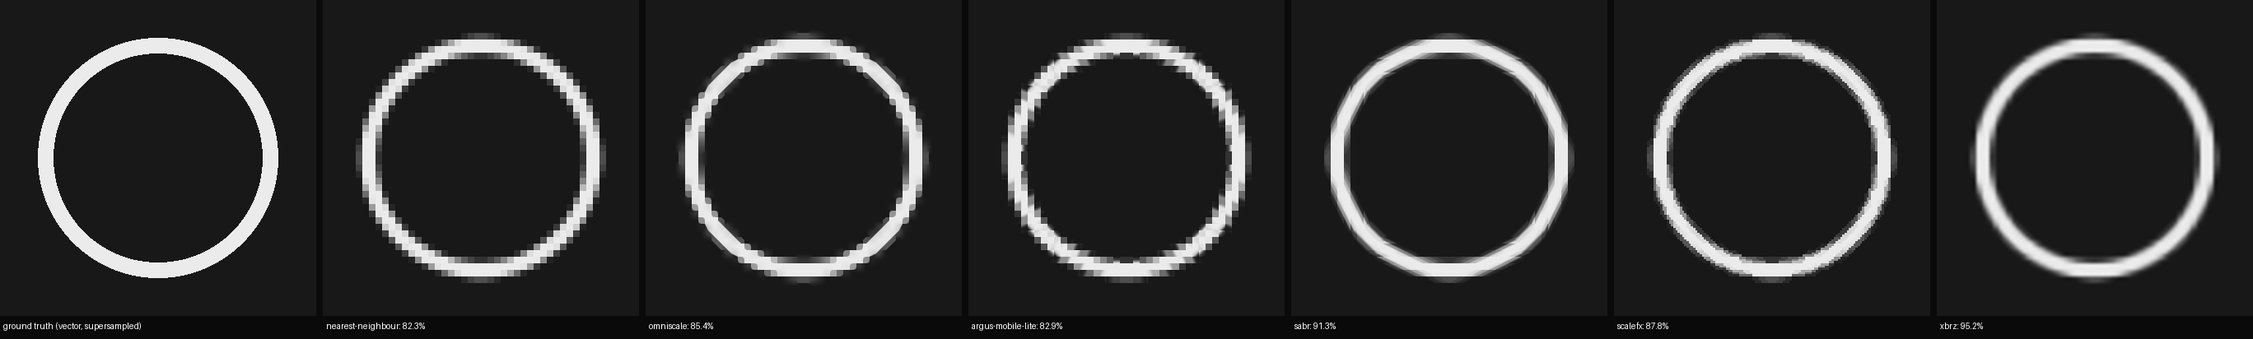
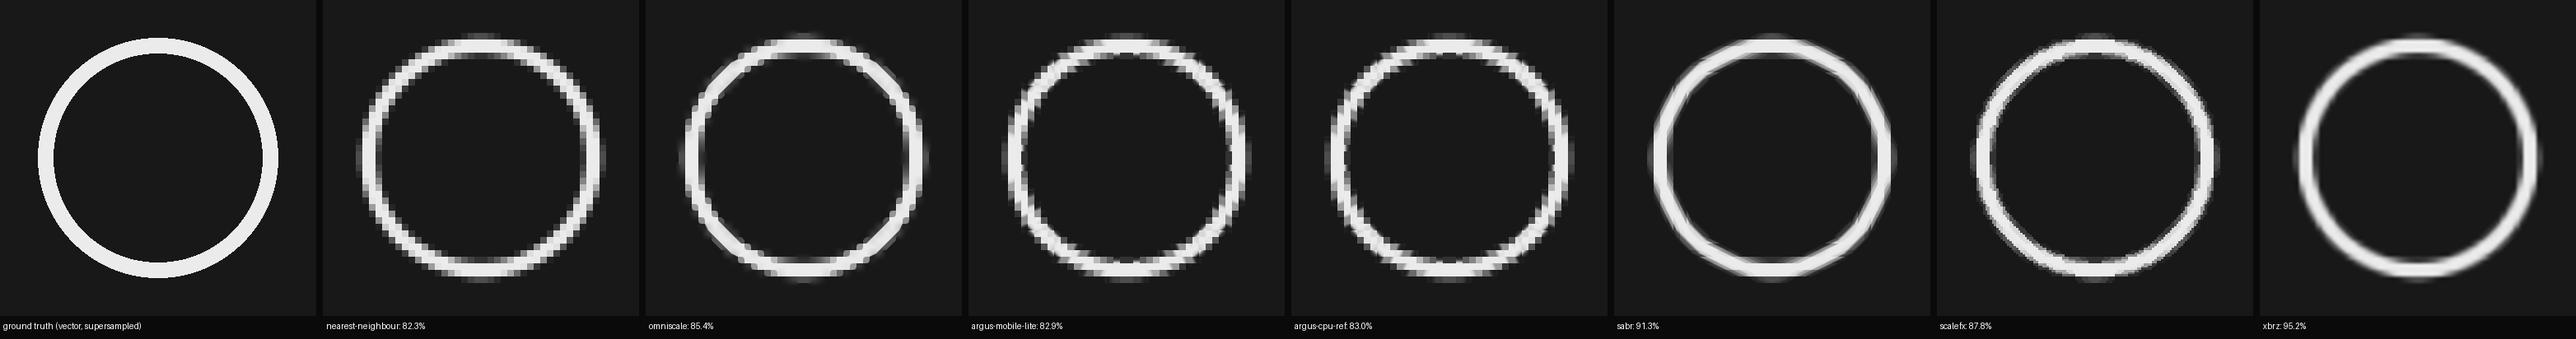
Fix CI: PyOpenGL context tracking blind to raw-EGL contexts
Every CI run on this branch was failing at "Run T-003 golden-image
regression harness" - including the pure-docs pivot commit that touched
no code, so this predates today's other work and needed its own fix.

Root cause: PyOpenGL auto-selects a platform plugin the first time any
OpenGL.* symbol is imported (GLX by default on Linux) and uses that
plugin's GetCurrentContext() for all of its own per-context state
tracking. egl_context.py's HeadlessContext makes a context current via
raw ctypes calls directly into libEGL.so.1 (deliberately, since PyOpenGL's
EGL bindings don't cover the device-enumeration extensions this project's
headless setup needs), which GLX has no way to observe - so PyOpenGL's
tracking saw "no context" on the first call needing it
(glVertexAttribPointer), independent of whether rendering itself would
have worked.

Installed the same GLES/EGL/glslang toolchain CI uses directly in this
session to reproduce it rather than guess, confirmed the platform-plugin
hypothesis by inspecting OpenGL.platform.PLATFORM before/after, and fixed
it by setting PYOPENGL_PLATFORM=egl before the first `from OpenGL import
GL` in both render_pass.py and render_multipass.py (duplicated rather than
centralized, since platform selection isn't reconsidered on a later import
and either file can be the first to touch OpenGL depending on the caller).

Verified fixed with the real toolchain, not just in theory:
run_harness.py now passes 62/62 goldens, classifier_gpu/verify_gpu.py
[…]

diff --git a/tools/render_harness/render_pass.py b/tools/render_harness/render_pass.py
@@ -15,12 +15,28 @@ multi-pass tier needs it.
 import argparse
 import ctypes
 import hashlib
+import os
 import re
 import sys
 from pathlib import Path
 
 import numpy as np
-from OpenGL import GL
+
+# PyOpenGL auto-selects a platform plugin (GLX on Linux by default) the
+# first time any OpenGL.* symbol is imported, and that plugin is what its
+# internal contextdata bookkeeping uses to ask "what's the current
+# context?" for every call that needs per-context state (e.g.
+# glVertexAttribPointer). egl_context.py's HeadlessContext makes a context
+# current via raw ctypes calls into libEGL directly (see its own docstring
+# on why), which GLX has no way to see — so PyOpenGL's own tracking sees
+# "no context" and every such call raises `OpenGL.error.Error: Attempt to
+# retrieve context when no valid context`, real GPU behind it or not. This
+# must be set before the *first* `from OpenGL import ...` anywhere in the
+# process (platform selection isn't reconsidered on a later import), so
+# render_multipass.py carries the same two lines rather than relying on
+# import order between the two files.
+os.environ.setdefault("PYOPENGL_PLATFORM", "egl")
+from OpenGL import GL  # noqa: E402
 from PIL import Image
 
 REPO_ROOT = Path(__file__).resolve().parents[2]

diff --git a/tools/render_harness/render_multipass.py b/tools/render_harness/render_multipass.py
@@ -38,12 +38,22 @@ Usage: python3 tools/render_harness/render_multipass.py preset.slangp source.png
 """
 import argparse
 import ctypes
+import os
 import re
 import sys
 from pathlib import Path
 
 import numpy as np
-from OpenGL import GL
+
+# Must happen before the first `from OpenGL import ...` anywhere in the
+# process — see render_pass.py's identical guard for why (PyOpenGL's
+# platform-plugin choice, made on first import, decides whether its
+# per-context state tracking can see a context made current via raw EGL
+# ctypes calls). Duplicated rather than imported from render_pass because
+# this file's own `from OpenGL import GL` below would otherwise run before
+# render_pass.py's copy does, if something imports this module first.
+os.environ.setdefault("PYOPENGL_PLATFORM", "egl")
+from OpenGL import GL  # noqa: E402
 from PIL import Image
 
 sys.path.insert(0, str(Path(__file__).resolve().parent))

diff --git a/tools/gold_eval/report.md b/tools/gold_eval/report.md
@@ -4,17 +4,17 @@ Generated by `run_eval.py`. See `generate_shapes.py` for full methodology. Two r
 
 ## vector regime
 
-| shape | nearest-neighbour | omniscale | argus-mobile-lite | sabr | scalefx | xbrz |
-|---|---:|---:|---:|---:|---:|---:|
-| v_corner | 81.0% | 81.8% | 80.5% | 90.1% | 88.9% | 93.4% |
-| o_ring | 82.3% | 85.4% | 82.9% | 91.3% | 87.8% | 95.2% |
+| shape | nearest-neighbour | omniscale | argus-mobile-lite | argus-cpu-ref | sabr | scalefx | xbrz |
+|---|---:|---:|---:|---:|---:|---:|---:|
+| v_corner | 81.0% | 81.8% | 80.5% | 80.5% | 90.1% | 88.9% | 93.4% |
+| o_ring | 82.3% | 85.4% | 82.9% | 83.0% | 91.3% | 87.8% | 95.2% |
 
 ## 8bit regime
 
-| shape | nearest-neighbour | omniscale | argus-mobile-lite | sabr | scalefx | xbrz |
-|---|---:|---:|---:|---:|---:|---:|
-| v_corner | 100.0% | 87.8% | 93.6% | 87.8% | 81.7% | 87.6% |
-| o_ring | 100.0% | 84.8% | 93.0% | 84.7% | 80.1% | 84.7% |
+| shape | nearest-neighbour | omniscale | argus-mobile-lite | argus-cpu-ref | sabr | scalefx | xbrz |
+|---|---:|---:|---:|---:|---:|---:|---:|
+| v_corner | 100.0% | 87.8% | 93.6% | 93.6% | 87.8% | 81.7% | 87.6% |
+| o_ring | 100.0% | 84.8% | 93.0% | 93.0% | 84.7% | 80.1% | 84.7% |
 
 ## Reading this honestly
 
@@ -23,3 +23,36 @@ Generated by `run_eval.py`. See `generate_shapes.py` for full methodology. Two r
 **On the 8bit regime (no hidden smooth source — genuine blocky pixel art), the picture reverses: argus-mobile-lite is the best of every real candidate** at leaving intentionally-blocky art alone (93.0-93.6%, clearly ahead of Omniscale/SABR/xBRZ's 84-88% and ScaleFX's 80-82%) — nearest-neighbour's 100% is tautological (it IS the ground truth here by construction), not a competing result. This is real, measured evidence that T-016/T-017's classifier and nearest-preserving reconstruction do what they were built to do.
 
 **Both are true at once, and neither should be cited alone.** argus-mobile-lite is measurably the best available candidate at its one specific design goal (don't smooth deliberate pixel art) and measurably the worst at the complementary, equally-common case (recover a real smooth edge) — where every competing algorithm is actually optimized. Real game content is a mix of both regimes, not one or the other, which is consistent with real screenshots looking worse overall despite this project's own narrower synthetic tests showing a near-tie.
+
+**Since the v0.3 pivot (docs/requirements.md), this is read differently**: the above is the evidence base for retiring the preservation goal, not a target to protect. `argus-cpu-ref` (F-1, docs/backlog.md) reproduces argus-mobile-lite's numbers exactly and is now the fast iteration surface for the fidelity work that replaces it — see the gate status below.
+
+## Fidelity gate status (docs/backlog.md Track F)
+
+### argus-mobile-lite
+```
+-- fidelity gates: argus-mobile-lite --
+[FAIL] primary
+    MISS v_corner: 80.5% (need >= 93.4%)
+    MISS o_ring: 82.9% (need >= 95.2%)
+[FAIL] interim
+    MISS v_corner: 80.5% (need >= 88.9%)
+    MISS o_ring: 82.9% (need >= 87.8%)
+[PASS] regression_guard
+    OK   v_corner: 93.6% (need >= 87.6%)
+    OK   o_ring: 93.0% (need >= 84.7%)
+```
+
+### argus-cpu-ref
+```
+-- fidelity gates: argus-cpu-ref --
+[FAIL] primary
+    MISS v_corner: 80.5% (need >= 93.4%)
+    MISS o_ring: 83.0% (need >= 95.2%)
+[FAIL] interim
+    MISS v_corner: 80.5% (need >= 88.9%)
+    MISS o_ring: 83.0% (need >= 87.8%)
+[PASS] regression_guard
+    OK   v_corner: 93.6% (need >= 87.6%)
+    OK   o_ring: 93.0% (need >= 84.7%)
+```
+

diff --git a/docs/backlog.md b/docs/backlog.md
@@ -115,12 +115,31 @@ equivalence check, not just the one-time validation. `run_eval.py`'s scoring hel
 imports anywhere in its dependency graph — `render_pass`/`render_multipass` are now lazily imported in
 `run_eval.py` only when a GPU-rendered candidate actually runs, which is also what makes the new
 `--skip-gpu` flag work in environments (like this one, this session) that have never had the GLES/EGL
-stack installed at all — see P-5. Verified via `--skip-gpu` here (no glslangValidator/EGL available in
-this session either — another live data point for P-5); the committed `tools/gold_eval/report.md`
-still reflects its last full GPU run and needs one more full (non-`--skip-gpu`) pass, in an
-environment with the GLES toolchain, to pick up the new `argus-cpu-ref` column and gate section —
-not done here since it would otherwise silently drop the omniscale/argus-mobile-lite/scalefx columns
-the committed report currently has.
+stack installed at all — see P-5. Verified via `--skip-gpu` here first (no glslangValidator/EGL
+available in this session's sandbox by default — another live data point for P-5); the GLES toolchain
+was then installed directly in-session (`apt-get install glslang-tools ... libegl1 libgles2
+libglx-mesa0`) to run the real thing, which surfaced and fixed an unrelated pre-existing CI bug
+(see "CI fix" below) before a full GPU run of `argus-cpu-ref` alongside every other candidate
+— including SABR/xBRZ, fetched to scratch per `docs/licensing.md` — became possible. `report.md` is
+now current, with the new `argus-cpu-ref` column matching `argus-mobile-lite` within 0.1pp under a
+real GPU too (82.87% vs 82.97% on `o_ring`/vector — the tiny remaining gap is almost certainly
+`np.round`'s round-half-to-even vs. GLSL's implementation-defined tie-breaking on the rare exact-0.5
+LUT direction component, not a real algorithmic difference).
+
+**CI fix (unrelated pre-existing bug, found while verifying the above).** Every CI run on this branch
+— including the pure-docs pivot commit that touched no code — was failing at "Run T-003 golden-image
+regression harness" with `OpenGL.error.Error: Attempt to retrieve context when no valid context`.
+Root cause: PyOpenGL auto-selects a platform plugin the first time any `OpenGL.*` symbol is imported
+(GLX by default on Linux), and uses that plugin's `GetCurrentContext()` for all of its own per-context
+state tracking. `egl_context.py`'s `HeadlessContext` makes a context current via raw `ctypes` calls
+directly into `libEGL.so.1` (deliberately — see its own docstring), which GLX has no way to observe,
+so PyOpenGL's tracking saw "no context" on the very first call needing it
+(`glVertexAttribPointer`) regardless of whether rendering itself would have worked. Reproduced locally
+by installing the same toolchain CI uses; fixed by setting `PYOPENGL_PLATFORM=egl` before the first
+`from OpenGL import GL` in both `render_pass.py` and `render_multipass.py` (duplicated in both rather
+than centralized, since platform selection isn't reconsidered on a later import and either file can be
+the first to touch `OpenGL` depending on caller). Verified fixed: `run_harness.py` now passes 62/62,
+`classifier_gpu/verify_gpu.py` passes, and the full `gold_eval` GPU run above completed clean.
 
 ### F-2 — Continuous-orientation contour estimation (replaces compass snapping)
 **Goal.** Per source pixel, estimate a local edge as a continuous orientation + signed offset (an
